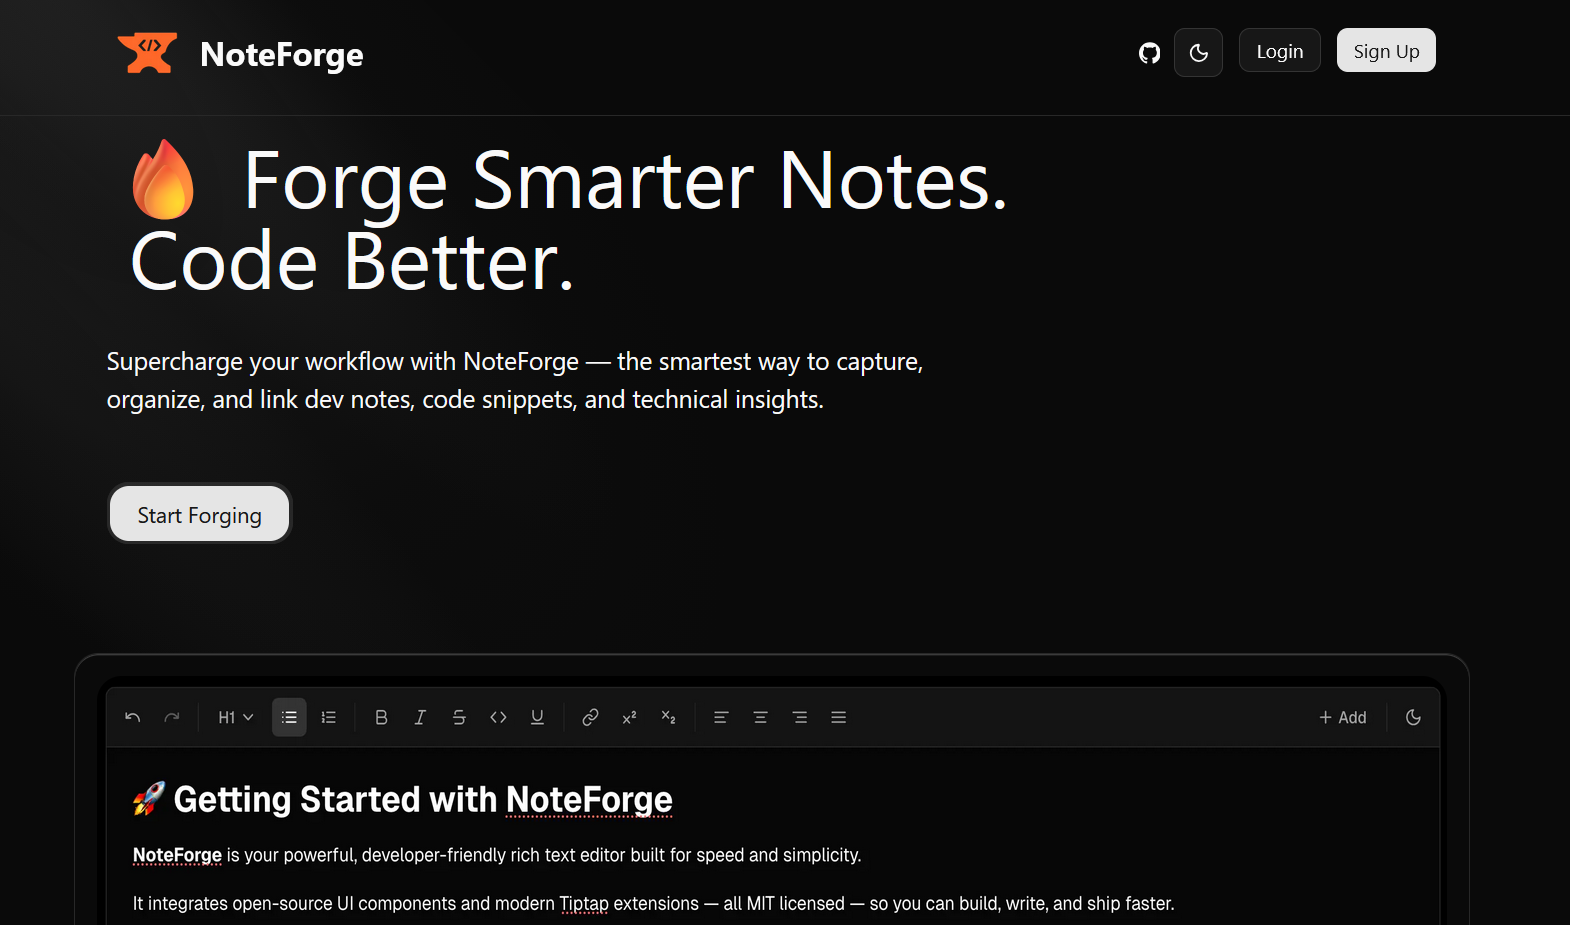
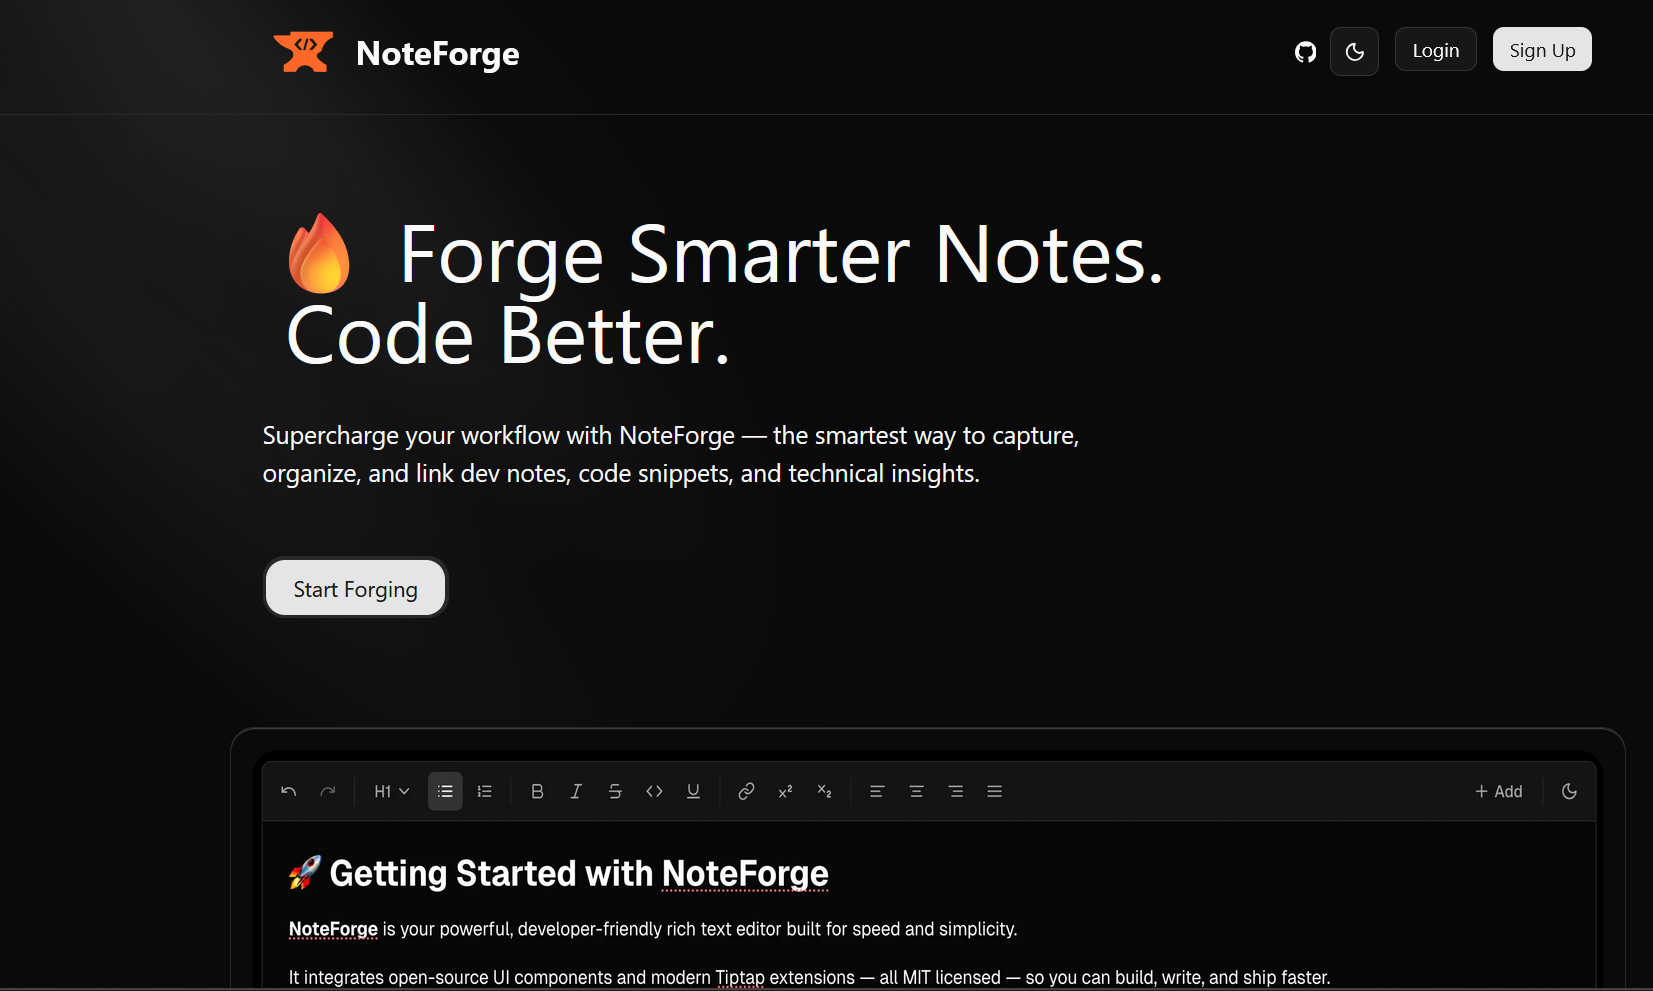
feat: add experience section with spotlight cards

diff --git a/src/components/PortfolioShowcase.tsx b/src/components/PortfolioShowcase.tsx
@@ -41,69 +41,7 @@ const getTagIcon = (tag: string, size = 14) => {
   return <IconCode size={size} />;
 };
 
-// --- Dummy Data ---
-const projects = [
-  {
-    id: 1,
-    title: 'RafSehat-Klinik',
-    description: 'Website RafSehat-Klinik untuk suatu instansi yang dibangun dengan React, Next.js, Tailwind CSS dan Drizzle.',
-    fullDescription: 'Sistem informasi dan manajemen klinik kesehatan (RafSehat-Klinik) yang dirancang untuk mempermudah operasional instansi kesehatan. Dibangun menggunakan stack modern Next.js, autentikasi aman dengan Better-Auth, dan pengelolaan database menggunakan Drizzle ORM serta Neon.',
-    image: 'rafklinikproject.png',
-    tags: ['Next.js', 'Tailwind', 'React', 'Drizzle', 'Neon', 'Better-Auth'],
-    liveDemo: 'https://rafsehat-klinik.vercel.app/',
-    sourceCode: 'https://github.com/Rafhrss/RafSehat-Klinik'
-  },
-  {
-    id: 2,
-    title: "Rafda Syar'i",
-    description: "Platform e-commerce toko gamis syar'i dengan fitur otentikasi, manajemen produk, dan transaksi.",
-    fullDescription: 'Aplikasi web e-commerce khusus untuk penjualan pakaian gamis syar\'i. Dilengkapi dengan antarmuka yang responsif dan elegan, katalog produk yang dinamis, serta alur transaksi yang mudah bagi pelanggan. Dibangun menggunakan React dan Vite.',
-    image: 'rafdasyariproject.png',
-    tags: ['React', 'Tailwind', 'Vite'],
-    liveDemo: 'https://rafdasyari.vercel.app/',
-    sourceCode: 'https://github.com/Rafhrss/Rafda-Store'
-  },
-  {
-    id: 3,
-    title: 'Note Forge',
-    description: 'Website catatan untuk kamu yang pelupa saat bekerja maupun aktifitas.',
-    fullDescription: 'Aplikasi pencatatan (note-taking) cerdas bergaya modern yang memungkinkan pengguna menulis dan mengelola catatan dengan mudah. Mendukung rich-text editor menggunakan Tip Tap, dan fitur autentikasi pengguna secara penuh.',
-    image: 'noteforgeproject.png',
-    tags: ['Next.js', 'Tailwind', 'React', 'Drizzle', 'Neon', 'Better-Auth', 'Tip Tap'],
-    liveDemo: 'https://next-noteforge-auth.vercel.app/',
-    sourceCode: 'https://github.com/Rafhrss/Next-Notes-Auth'
-  }
-];
-
-const certificates = [
-  {
-    id: 1,
-    title: 'Belajar Membuat Aplikasi Web dengan React',
-    issuer: 'DICODING INDONESIA',
-    date: 'Dec 2024',
-    image: 'https://images.unsplash.com/photo-1523050854058-8df90110c9f1?w=600&auto=format&fit=crop&q=60'
-  },
-  {
-    id: 2,
-    title: 'Belajar Dasar Pemrograman JavaScript',
-    issuer: 'DICODING INDONESIA',
-    date: 'Dec 2024',
-    image: 'https://images.unsplash.com/photo-1517694712202-14dd9538aa97?w=600&auto=format&fit=crop&q=60'
-  },
-  {
-    id: 3,
-    title: 'Belajar Membuat Front-End Web untuk Pemula',
-    issuer: 'DICODING INDONESIA',
-    date: 'Dec 2024',
-    image: 'https://images.unsplash.com/photo-1498050108023-c5249f4df085?w=600&auto=format&fit=crop&q=60'
-  }
-];
-
-const techStack = [
-  { category: 'Frontend', items: ['React', 'Next.js', 'Tailwind CSS', 'Framer Motion'] },
-  { category: 'Backend', items: ['Node.js', 'Express', 'REST API', 'MySQL'] },
-  { category: 'Tools', items: ['Git', 'GitHub', 'Figma', 'VS Code'] }
-];
+import { projects, certificates, techStack } from '@/data/portfolio';
 
 export default function PortfolioShowcase() {
   const [activeTab, setActiveTab] = useState<'projects' | 'certificates' | 'techStack'>('projects');
@@ -126,7 +64,8 @@ export default function PortfolioShowcase() {
   }, [selectedProject]);
 
   return (
-    <div id="project" className="w-full px-4 md:px-8 py-20 max-w-6xl mx-auto flex flex-col items-center">
+    // max-w-7xl untuk melebarkan showcase
+    <div id="project" className="w-full px-4 md:px-8 py-20 max-w-7xl mx-auto flex flex-col items-center">
       {/* Title */}
       <h2 className="text-4xl md:text-5xl lg:text-6xl font-black mb-12 uppercase tracking-wider text-center drop-shadow-[0_0_15px_rgba(34,211,238,0.3)]">
         <span className="text-transparent bg-clip-text bg-linear-to-r from-cyan-400 to-cyan-100">PORTFOLIO</span>
@@ -159,7 +98,8 @@ export default function PortfolioShowcase() {
       </div>
 
       {/* Content Area */}
-      <div className="w-full min-h-[400px]">
+      {/* rounded-[2rem] p-4 md:p-6 untuk melebarkan showcase */}
+      <div className="w-full min-h-[400px] bg-[#0A1128]/40 backdrop-blur-sm border border-[#1E3A8A]/30 rounded-[2rem] p-4 md:p-6 shadow-2xl">
         <AnimatePresence mode="wait">
           {/* PROJECTS TAB */}
           {activeTab === 'projects' && (

diff --git a/src/data/portfolio.ts b/src/data/portfolio.ts
@@ -1,0 +1,90 @@
+export const projects = [
+  {
+    id: 1,
+    title: 'RafSehat-Klinik',
+    description: 'Website RafSehat-Klinik untuk suatu instansi yang dibangun dengan React, Next.js, Tailwind CSS dan Drizzle.',
+    fullDescription: 'Sistem informasi dan manajemen klinik kesehatan (RafSehat-Klinik) yang dirancang untuk mempermudah operasional instansi kesehatan. Dibangun menggunakan stack modern Next.js, autentikasi aman dengan Better-Auth, dan pengelolaan database menggunakan Drizzle ORM serta Neon.',
+    image: 'rafklinikproject.png',
+    tags: ['Next.js', 'Tailwind', 'React', 'Drizzle', 'Neon', 'Better-Auth'],
+    liveDemo: 'https://rafsehat-klinik.vercel.app/',
+    sourceCode: 'https://github.com/Rafhrss/RafSehat-Klinik'
+  },
+  {
+    id: 2,
+    title: "Rafda Syar'i",
+    description: "Platform e-commerce toko gamis syar'i dengan fitur otentikasi, manajemen produk, dan transaksi.",
+    fullDescription: 'Aplikasi web e-commerce khusus untuk penjualan pakaian gamis syar\'i. Dilengkapi dengan antarmuka yang responsif dan elegan, katalog produk yang dinamis, serta alur transaksi yang mudah bagi pelanggan. Dibangun menggunakan React dan Vite.',
+    image: 'rafdasyariproject.png',
+    tags: ['React', 'Tailwind', 'Vite'],
+    liveDemo: 'https://rafdasyari.vercel.app/',
+    sourceCode: 'https://github.com/Rafhrss/Rafda-Store'
+  },
+  {
+    id: 3,
+    title: 'Note Forge',
+    description: 'Website catatan untuk kamu yang pelupa saat bekerja maupun aktifitas.',
+    fullDescription: 'Aplikasi pencatatan (note-taking) cerdas bergaya modern yang memungkinkan pengguna menulis dan mengelola catatan dengan mudah. Mendukung rich-text editor menggunakan Tip Tap, dan fitur autentikasi pengguna secara penuh.',
+    image: 'noteforgeproject.png',
+    tags: ['Next.js', 'Tailwind', 'React', 'Drizzle', 'Neon', 'Better-Auth', 'Tip Tap'],
+    liveDemo: 'https://next-noteforge-auth.vercel.app/',
+    sourceCode: 'https://github.com/Rafhrss/Next-Notes-Auth'
+  }
+];
+
+export const certificates = [
+  {
+    id: 1,
+    title: 'Belajar Membuat Aplikasi Web dengan React',
+    issuer: 'DICODING INDONESIA',
+    date: 'Dec 2024',
+    image: 'https://images.unsplash.com/photo-1523050854058-8df90110c9f1?w=600&auto=format&fit=crop&q=60'
+  },
+  {
+    id: 2,
+    title: 'Belajar Dasar Pemrograman JavaScript',
+    issuer: 'DICODING INDONESIA',
+    date: 'Dec 2024',
+    image: 'https://images.unsplash.com/photo-1517694712202-14dd9538aa97?w=600&auto=format&fit=crop&q=60'
+  },
+  {
+    id: 3,
+    title: 'Belajar Membuat Front-End Web untuk Pemula',
+    issuer: 'DICODING INDONESIA',
+    date: 'Dec 2024',
+    image: 'https://images.unsplash.com/photo-1498050108023-c5249f4df085?w=600&auto=format&fit=crop&q=60'
+  }
+];
+
+export const techStack = [
+  { category: 'Frontend', items: ['React', 'Next.js', 'JavaScript', 'Tailwind CSS', 'HTML5', 'CSS3'] },
+  { category: 'Backend', items: ['Node.js', 'Flask', 'Django', 'MySQL', 'Drizzle', 'Neon'] },
+  { category: 'Tools', items: ['Git', 'GitHub', 'Figma', 'VSCode'] }
+];
+
+export const experiences = [
+  {
+    id: 1,
+    title: 'IT Support',
+    highlight: 'RSBT Sungailiat',
+    date: '2024-2025',
+    bullets: [
+      'Mengembangkan dan memelihara infrastruktur jaringan rumah sakit, termasuk pembangunan jaringan hotspot untuk layanan WiFi publik.',
+      'Berkolaborasi dengan tim dalam pemeliharaan perangkat seperti komputer, printer, scanner, dan perangkat pendukung lainnya.',
+      'Melakukan pemeliharaan sistem operasi berbasis Windows dan Linux server.'
+    ]
+  },
+  {
+    id: 2,
+    title: 'IT Network System Administrator',
+    highlight: 'Kompetisi',
+    date: '2024',
+    description: 'Saya memiliki pengalaman mengikuti Lomba Kompetensi Siswa (LKS) bidang IT Network System Administration tingkat Provinsi Kepulauan Bangka Belitung tahun 2024.'
+  },
+  {
+    id: 3,
+    title: 'Membangun Jaringan Hotspot',
+    highlight: 'SMKN 1 Sungailiat',
+    date: '2024-2025',
+    description: 'Membangun dan mengembangkan jaringan hotspot berbasis voucher menggunakan router Mikrotik.'
+  }
+];

diff --git a/src/components/ExperienceSection.tsx b/src/components/ExperienceSection.tsx
@@ -1,0 +1,49 @@
+import React from 'react';
+import SpotlightCard from './SpotlightCard';
+import { experiences } from '@/data/portfolio';
+
+export default function ExperienceSection() {
+  return (
+    <div id="experience" className="w-full px-4 md:px-8 py-20 max-w-7xl mx-auto flex flex-col items-center">
+      {/* Title */}
+      <h2 className="text-4xl md:text-5xl lg:text-6xl font-black mb-16 uppercase tracking-wider text-center drop-shadow-[0_0_15px_rgba(34,211,238,0.3)]">
+        <span className="text-transparent bg-clip-text bg-linear-to-r from-cyan-400 to-cyan-100">WORK</span>
+        <span className="text-white ml-3">EXPERIENCE</span>
+      </h2>
+
+      {/* Experience Cards */}
+      {/* hapus max-w-5xl untuk memanjang kesamping card */}
+      <div className="w-full flex flex-col gap-6">
+        {experiences.map((exp) => (
+          <SpotlightCard 
+            key={exp.id} 
+            spotlightColor="rgba(0, 229, 255, 0.2)" // cyan-500 with low opacity
+            className="w-full bg-[#0A1128]/80 border border-[#1E3A8A]/40 rounded-2xl p-6 md:p-8 flex flex-col items-start text-left shadow-lg"
+          >
+            <h3 className="text-2xl md:text-3xl font-bold text-white mb-2">
+              {exp.title} <span className="text-cyan-400">{exp.highlight}</span>
+            </h3>
+            <p className="text-slate-400 text-sm md:text-base font-medium mb-6">
+              {exp.date}
+            </p>
+            
+            {exp.bullets ? (
+              <ul className="space-y-3">
+                {exp.bullets.map((bullet, index) => (
+                  <li key={index} className="flex items-start text-slate-300 text-base md:text-lg leading-relaxed">
+                    <span className="mr-3 text-cyan-500 mt-1.5">-</span>
+                    <span>{bullet}</span>
+                  </li>
+                ))}
+              </ul>
+            ) : (
+              <p className="text-slate-300 text-base md:text-lg leading-relaxed">
+                {exp.description}
+              </p>
+            )}
+          </SpotlightCard>
+        ))}
+      </div>
+    </div>
+  );
+}

diff --git a/src/components/SpotlightCard.tsx b/src/components/SpotlightCard.tsx
@@ -1,0 +1,71 @@
+"use client"
+import React, { useRef, useState } from 'react';
+
+interface Position {
+  x: number;
+  y: number;
+}
+
+interface SpotlightCardProps extends React.PropsWithChildren {
+  className?: string;
+  spotlightColor?: `rgba(${number}, ${number}, ${number}, ${number})`;
+}
+
+const SpotlightCard: React.FC<SpotlightCardProps> = ({
+  children,
+  className = '',
+  spotlightColor = 'rgba(255, 255, 255, 0.25)'
+}) => {
+  const divRef = useRef<HTMLDivElement>(null);
+  const [isFocused, setIsFocused] = useState<boolean>(false);
+  const [position, setPosition] = useState<Position>({ x: 0, y: 0 });
+  const [opacity, setOpacity] = useState<number>(0);
+
+  const handleMouseMove: React.MouseEventHandler<HTMLDivElement> = e => {
+    if (!divRef.current || isFocused) return;
+
+    const rect = divRef.current.getBoundingClientRect();
+    setPosition({ x: e.clientX - rect.left, y: e.clientY - rect.top });
+  };
+
+  const handleFocus = () => {
+    setIsFocused(true);
+    setOpacity(0.6);
+  };
+
+  const handleBlur = () => {
+    setIsFocused(false);
+    setOpacity(0);
+  };
+
+  const handleMouseEnter = () => {
+    setOpacity(0.6);
+  };
+
+  const handleMouseLeave = () => {
+    setOpacity(0);
+  };
+
+  return (
+    <div
+      ref={divRef}
+      onMouseMove={handleMouseMove}
+      onFocus={handleFocus}
+      onBlur={handleBlur}
+      onMouseEnter={handleMouseEnter}
+      onMouseLeave={handleMouseLeave}
+      className={`relative rounded-3xl border border-neutral-800 bg-neutral-900 overflow-hidden p-8 ${className}`}
+    >
+      <div
+        className="pointer-events-none absolute inset-0 opacity-0 transition-opacity duration-500 ease-in-out"
+        style={{
+          opacity,
+          background: `radial-gradient(circle at ${position.x}px ${position.y}px, ${spotlightColor}, transparent 80%)`
+        }}
+      />
+      {children}
+    </div>
+  );
+};
+
+export default SpotlightCard;

diff --git a/src/app/page.tsx b/src/app/page.tsx
@@ -1,6 +1,6 @@
 import HeroSection from "@/components/HeroSection";
 import AboutSection from "@/components/AboutSection";
-
+import ExperienceSection from "@/components/ExperienceSection";
 import PortfolioShowcase from "@/components/PortfolioShowcase";
 
 export default function Home() {
@@ -17,6 +17,11 @@ export default function Home() {
       {/* Portfolio Showcase */}
       <div className="relative z-10 pointer-events-auto">
         <PortfolioShowcase />
+      </div>
+
+      {/* Experience Section */}
+      <div className="relative z-10 pointer-events-auto">
+        <ExperienceSection />
       </div>
     </div>
   );

diff --git a/src/components/resizable-navbar-demo.tsx b/src/components/resizable-navbar-demo.tsx
@@ -16,7 +16,7 @@ export default function NavbarDemo() {
   const navItems = [
     {
       name: "Home",
-      link: "#home",
+      link: "#",
     },
     {
       name: "Project",

diff --git a/README.md b/README.md
@@ -23,5 +23,5 @@ npm install @tabler/icons-react
 npm install motion
 npm install @tabler/icons-react     = IconBrandGithub, IconBrandInstagram, IconBrandLinkedin
 npx shadcn@latest add @react-bits/TextType-TS-TW
-
+npx shadcn@latest add @react-bits/SpotlightCard-TS-TW
 ```
